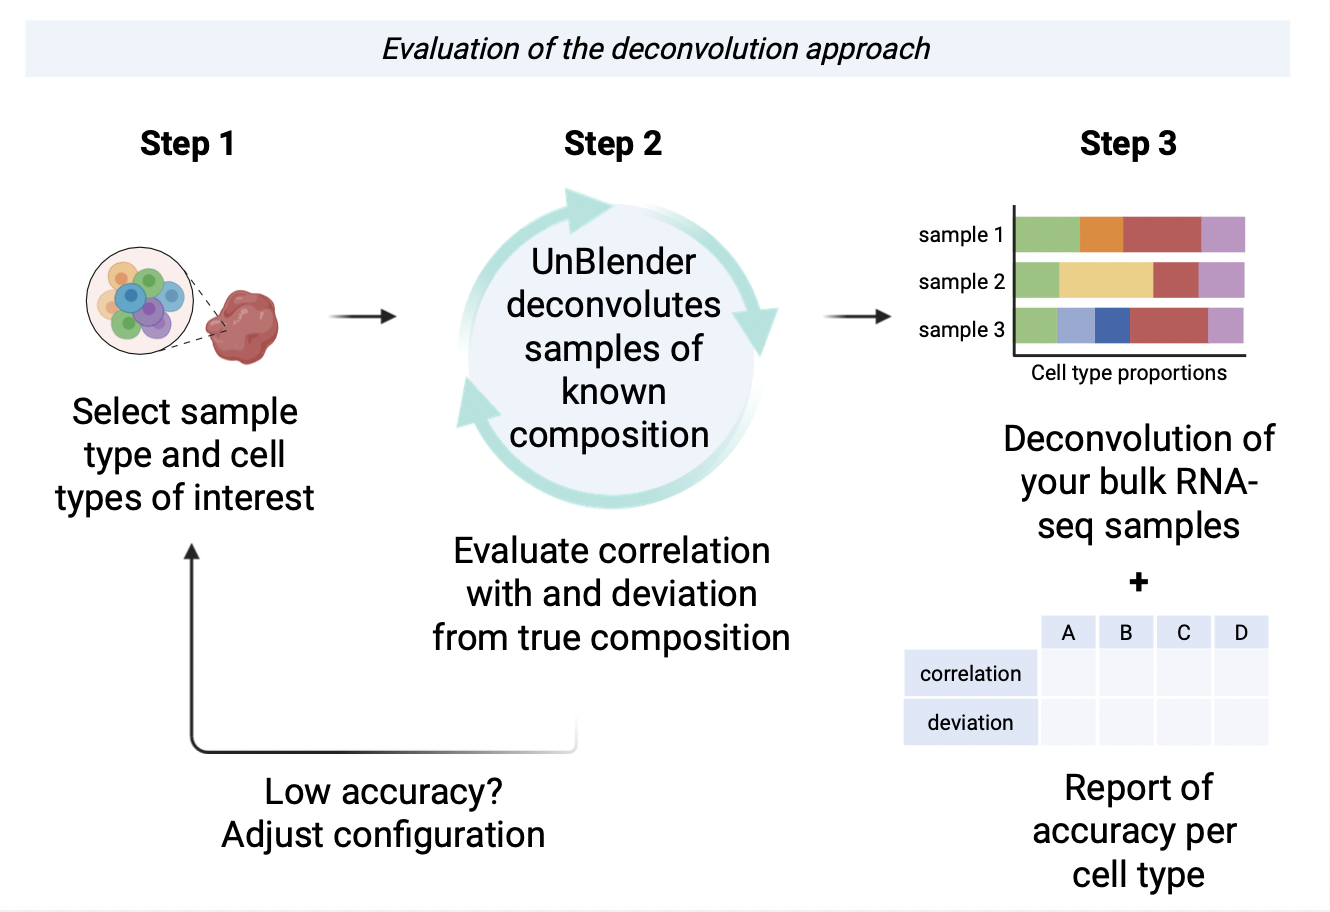
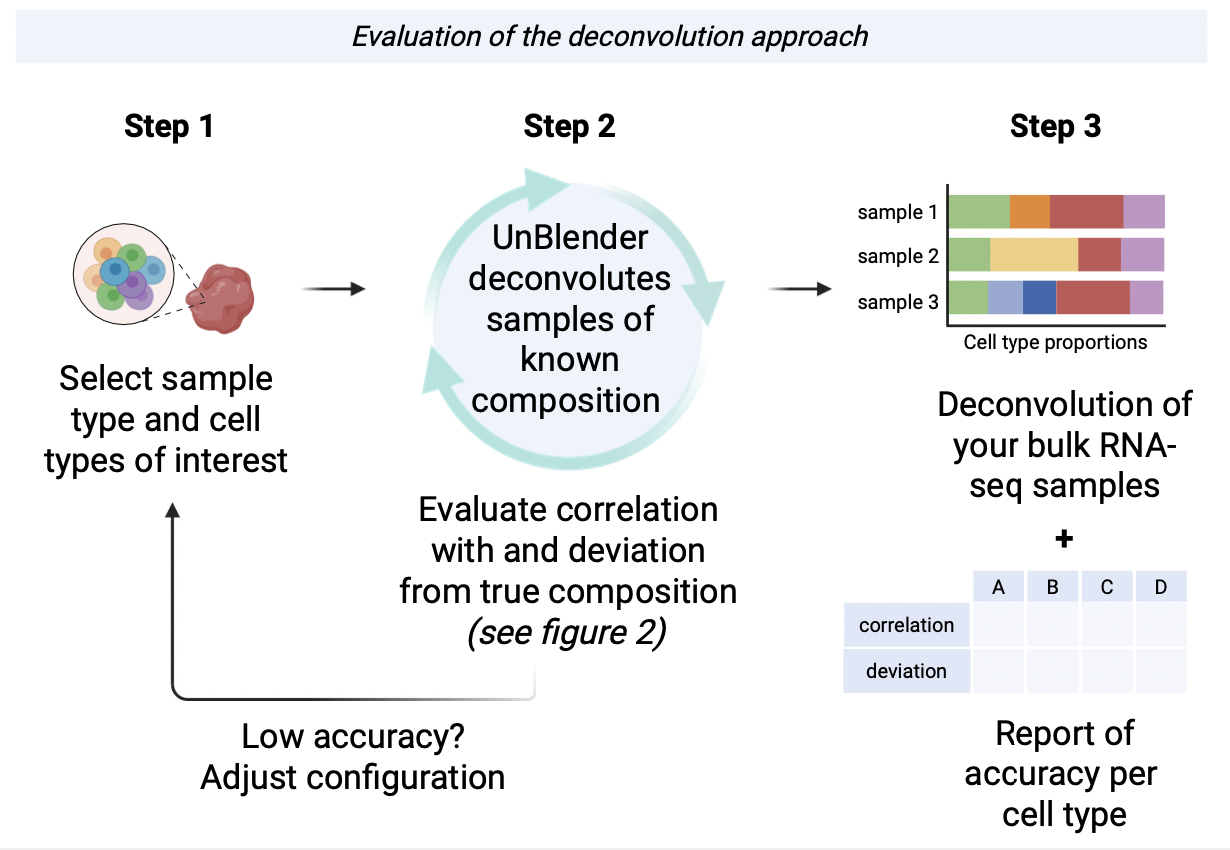
Add workflow image

diff --git a/README.md b/README.md
@@ -10,7 +10,7 @@ deconvolution into a cell type label granularity that suits the need of
 a research question, and validates whether that approach is able to
 yield accurate results.
 
-![](./UnBlender_workflow.png "The UnBlender workflow"){width="700"}
+![](./UnBlender_workflow.png "The UnBlender workflow")
 
 **Why is this important?** Because otherwise there is a very realistic
 risk of generating meaningless deconvolution results. For reliable